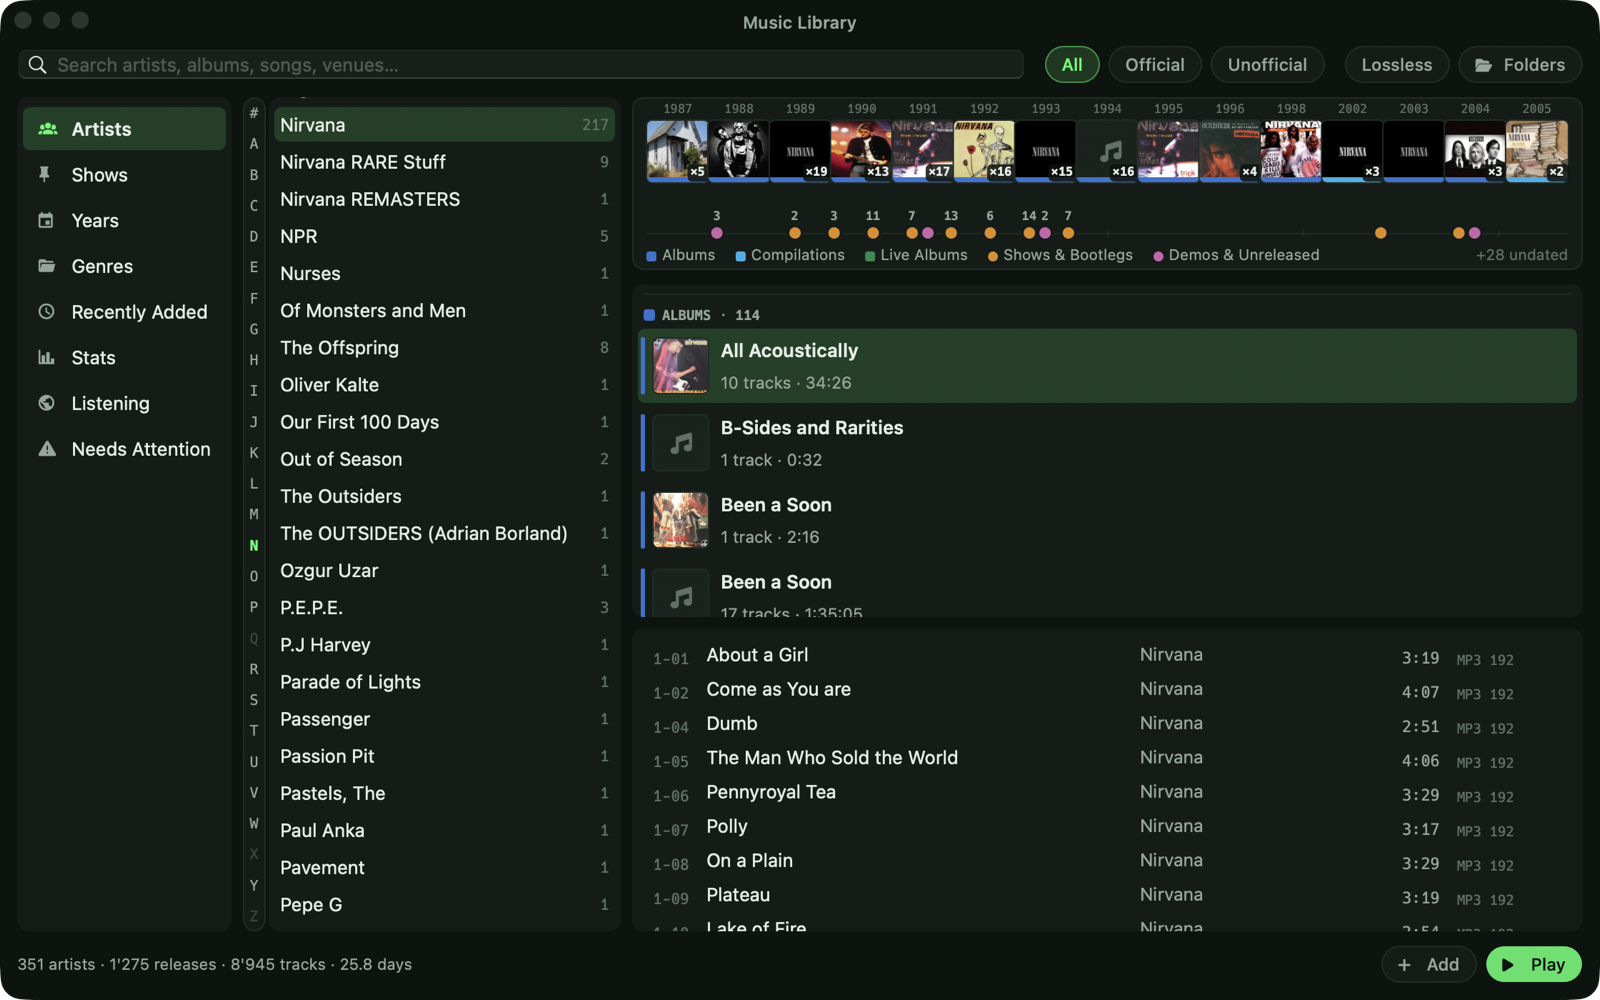
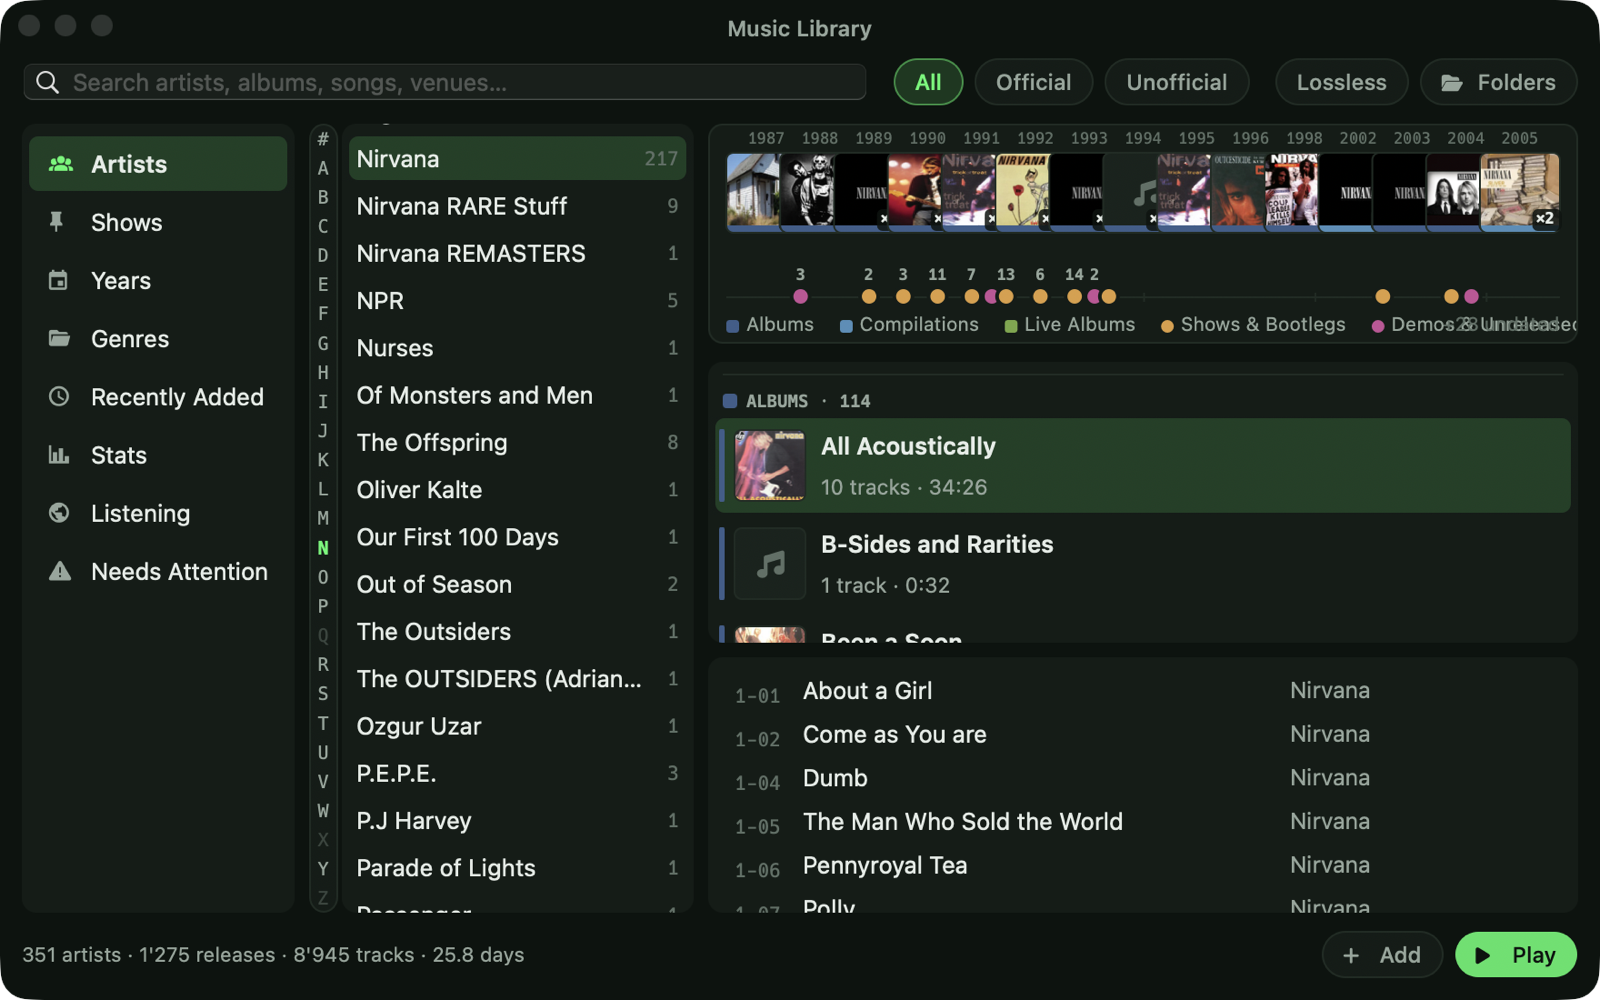
README: new library screenshots in Green and Blue with Tinted and Apollo charts, the listening overview and a world map shot side by side

diff --git a/README.md b/README.md
@@ -25,7 +25,7 @@ The finish sets the windows around the display, and it applies to the Music Libr
 - **Hardware**: neutral grey.
 - **Studio**: slate blue-green.
 
-The chart colors set the Music Library's graphs. There are four soft pixel-art palettes from [Lospec](https://lospec.com): Vinik24 (default), Apollo, Lost Century and Sweetie 16. There's also Phosphor, which draws the data in the theme's own color. **Color-Blind Safe Colors** swaps the artist and recording-kind colors for a set that stays distinct with color blindness.
+The chart colors set the Music Library's graphs. There are four soft pixel-art palettes from [Lospec](https://lospec.com): Vinik24 (default), Apollo, Lost Century and Sweetie 16. There's also Phosphor, which draws the data in the theme's own color. **Color-Blind Safe Colors** swaps the artist and recording-kind colors for a set that stays distinct with color blindness. The library screenshots below use Green and Blue, Tinted, with Apollo charts.
 
 The **INFO** drawer shows full tags, the file format, the album and cover art. The **EQ** drawer has the 10-band equalizer with presets.
 
@@ -53,11 +53,12 @@ Add your music folders, on your Mac or on a NAS, and press **LIBRARY** (or ⌘4)
 
 <p align="center">
   <img src="docs/library-browse.png" alt="Browsing an artist: releases as a cover shelf by year, albums and tracks" width="49%">
-  <img src="docs/library-shows.png" alt="Shows: an artist's live recordings by date and venue" width="49%">
+  <img src="docs/library-shows.png" alt="Shows: an artist's live recordings by date and venue (Blue theme)" width="49%">
 </p>
+<p align="center"><img src="docs/library-stats.png" alt="Collection stats: the newest release and key figures, release years, kinds of recordings (Blue theme)" width="700"></p>
 <p align="center">
-  <img src="docs/library-stats.png" alt="Collection stats: the newest release and key figures, release years, kinds of recordings" width="49%">
-  <img src="docs/library-listening.png" alt="Listening history from Last.fm: your most played artist and key figures, plays per year, how much of what you play you own" width="49%">
+  <img src="docs/library-listening.png" alt="Listening history from Last.fm: your most played artist and key figures, plays per year, how much of what you play you own, your top artists through the years" width="49%">
+  <img src="docs/library-map.png" alt="Where the music you play comes from: a world map of your artists' countries, top countries and their artists" width="49%">
 </p>
 
 ## Internet radio
